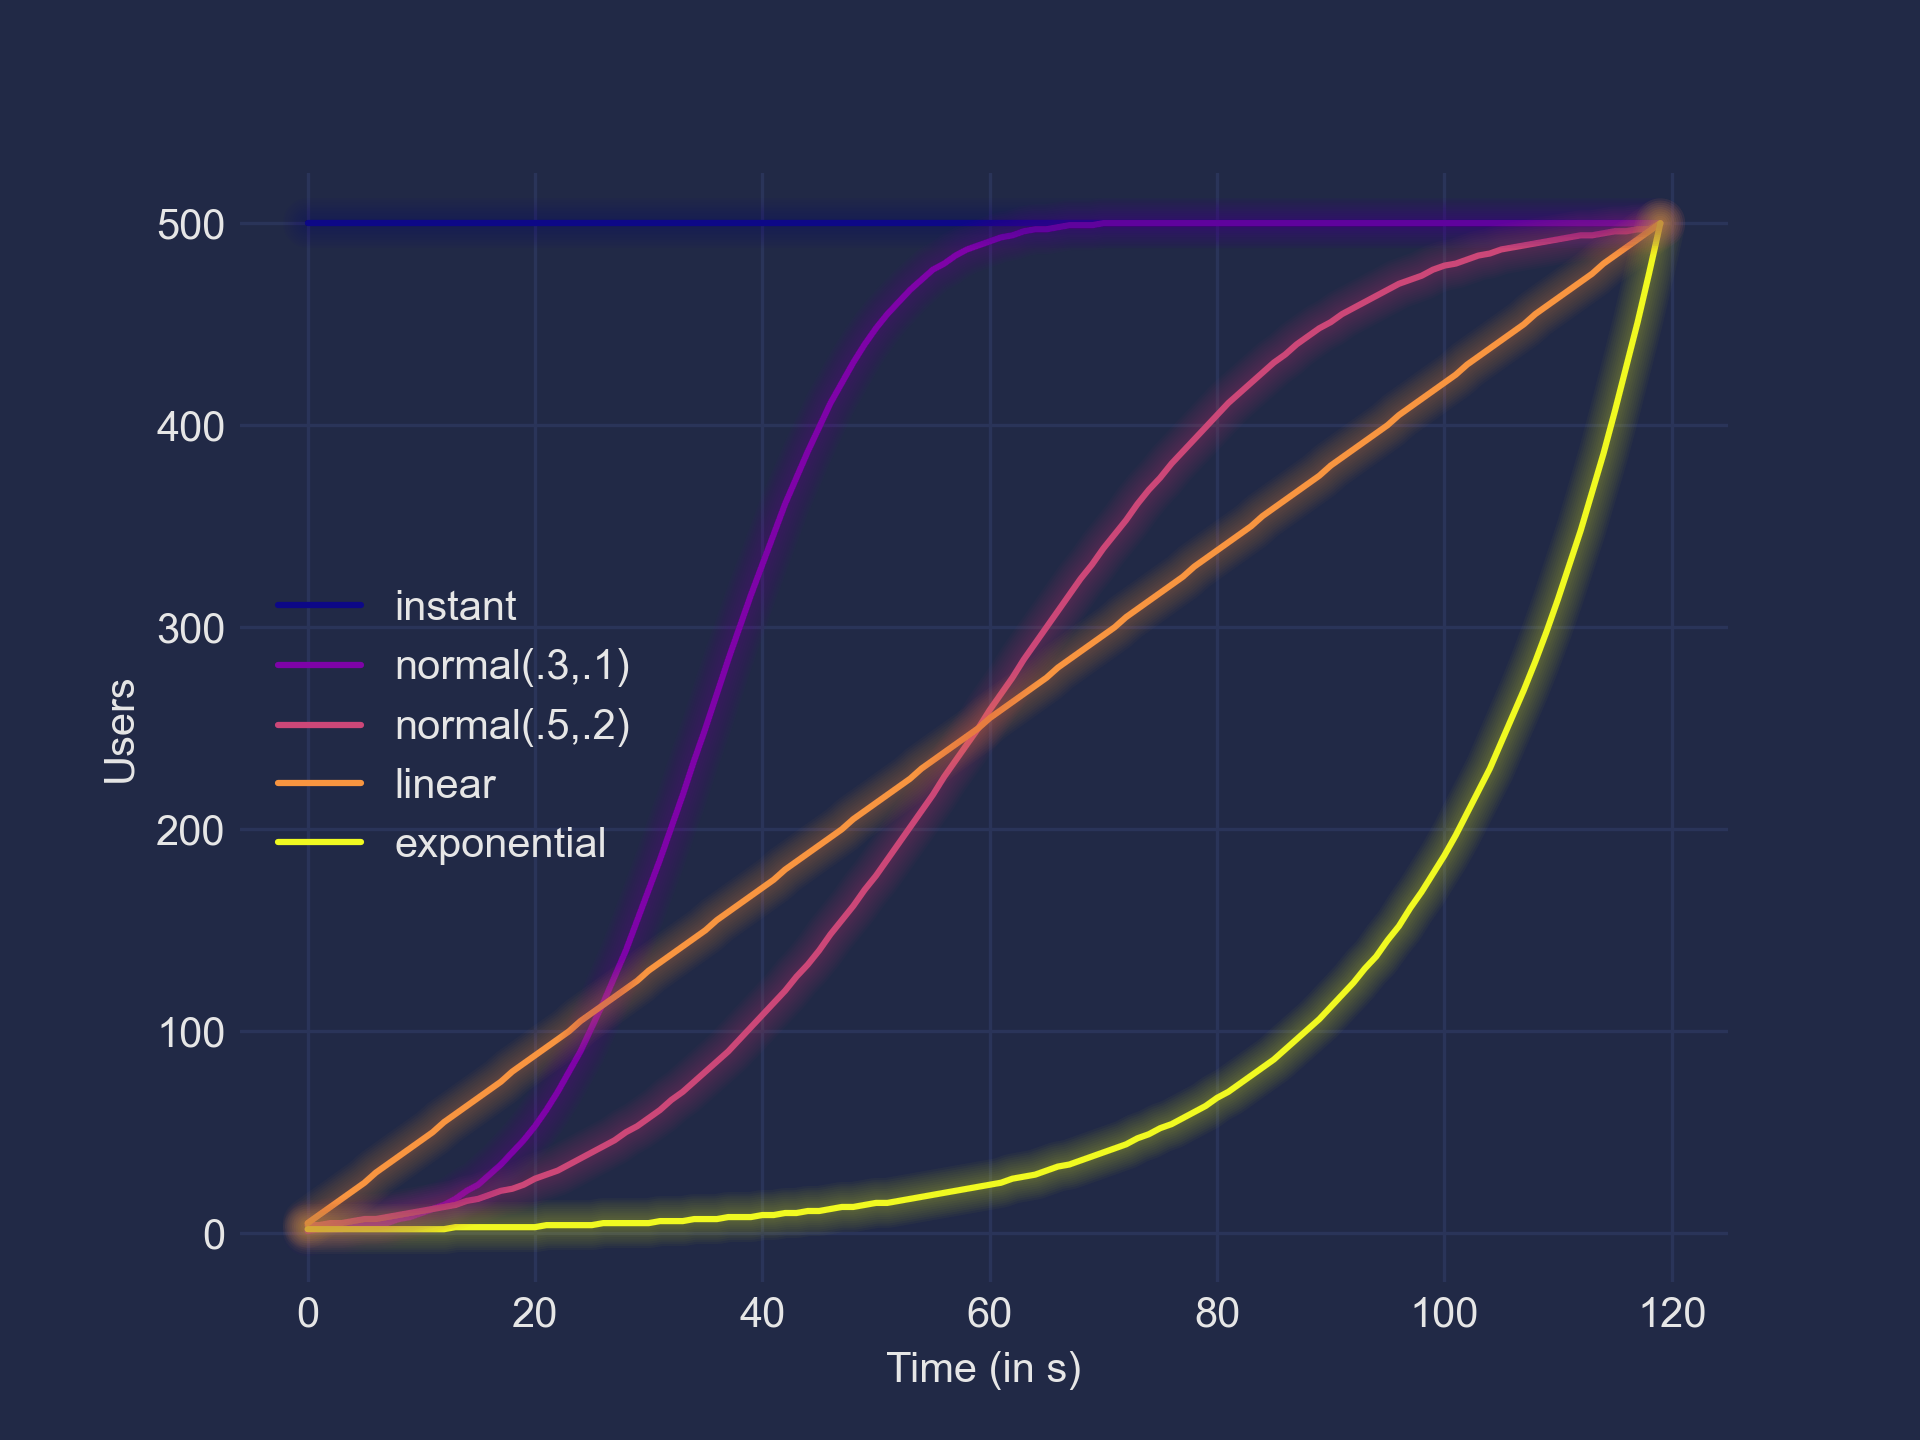
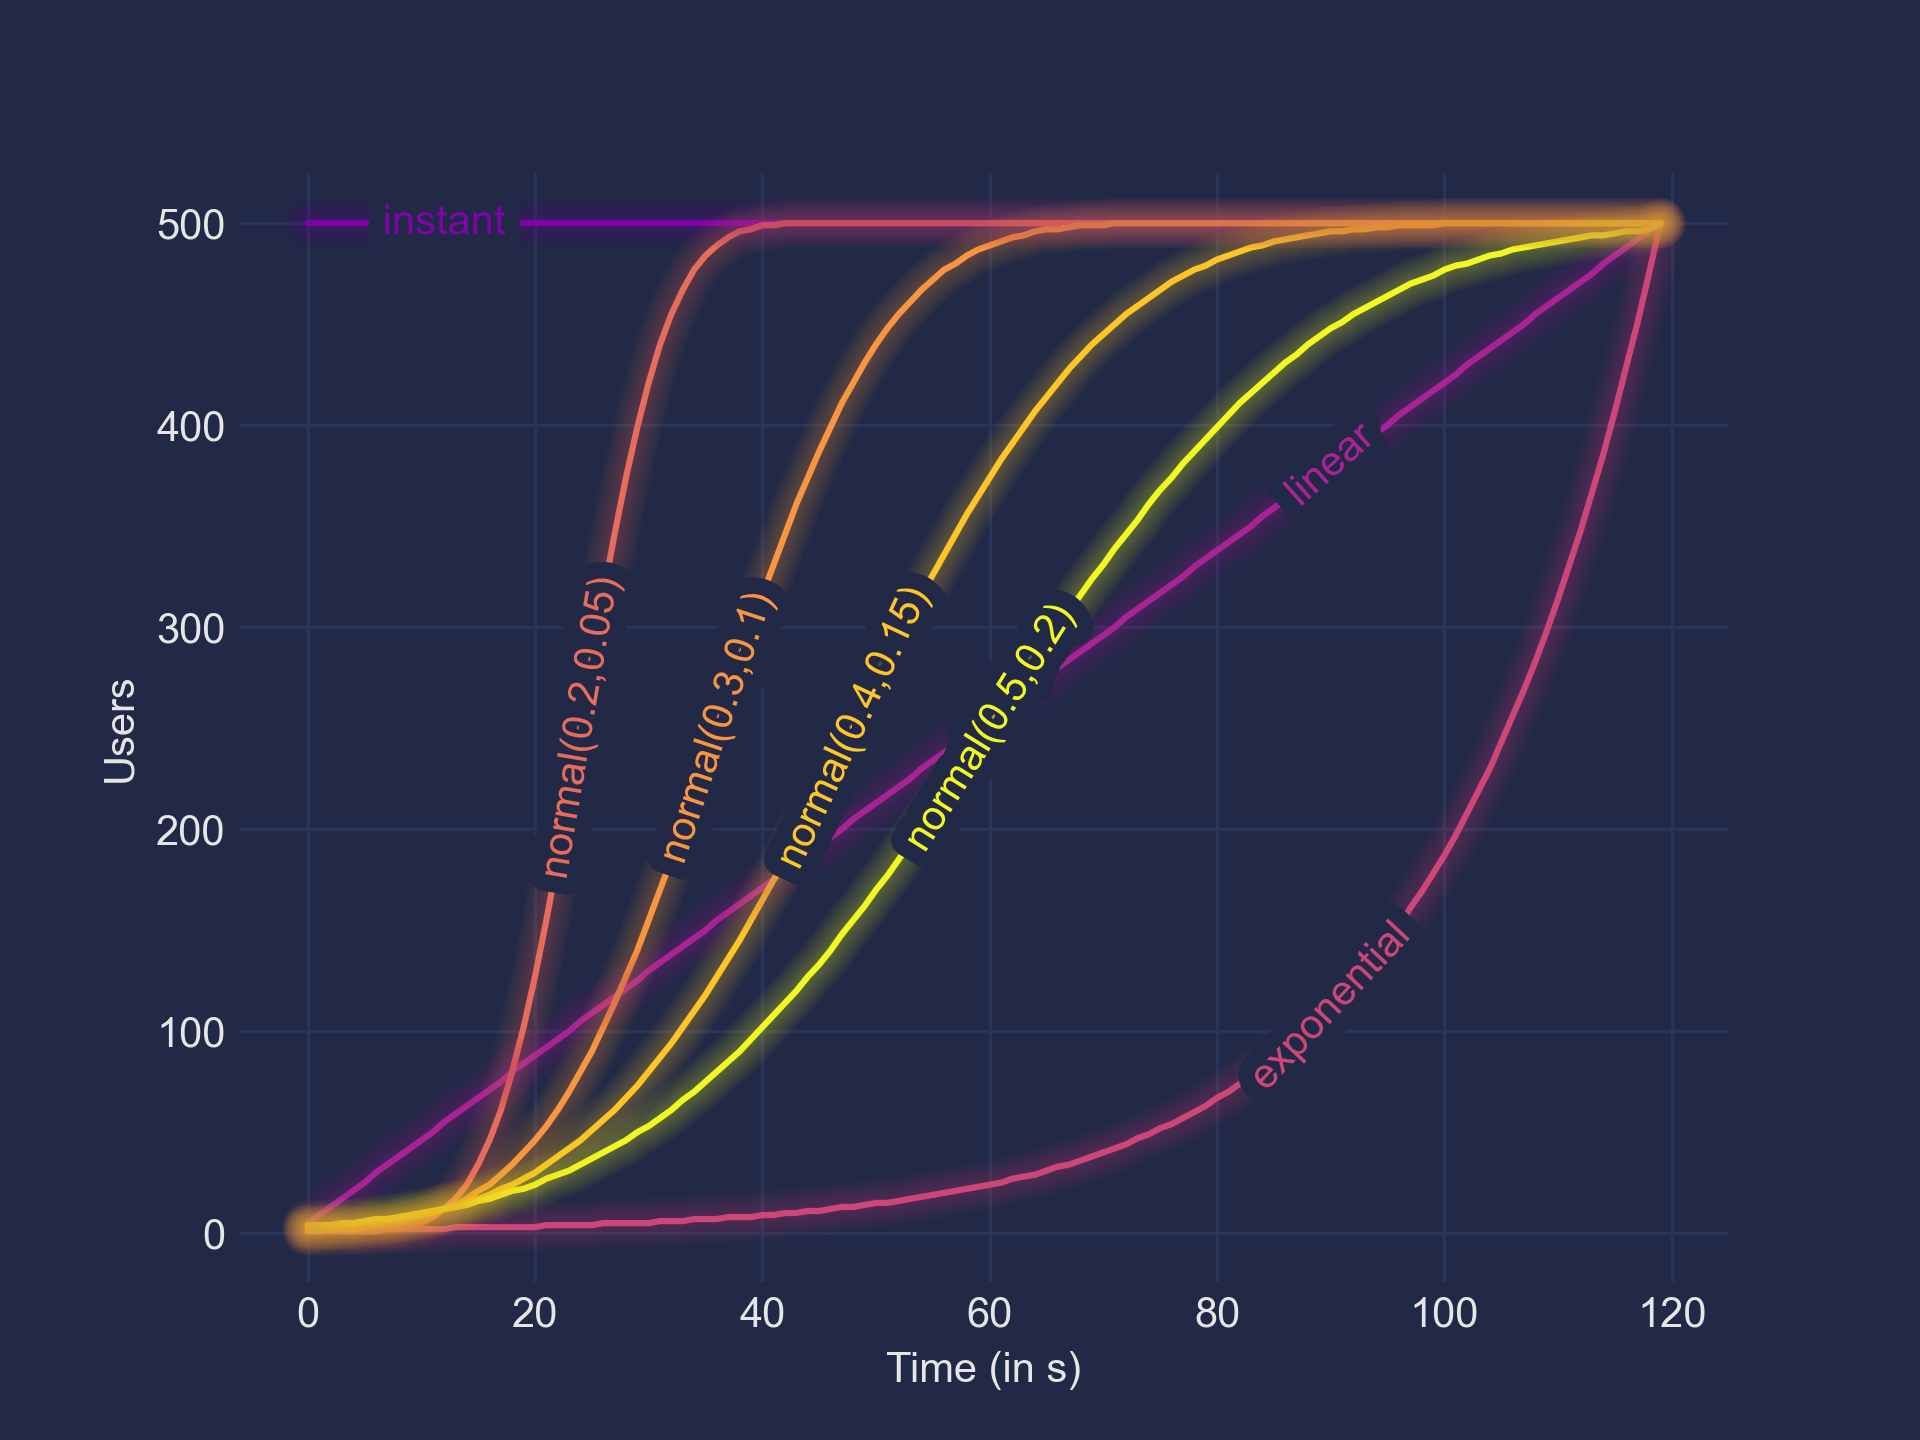
chore: enhance distribution and doc

Changed region(s): [[0.125, 0.125, 0.875, 0.875]]

diff --git a/tests/load/utils/distribution.py b/tests/load/utils/distribution.py
@@ -7,7 +7,7 @@ exponential = lambda: lambda n,b : [
 
 normal = lambda m,s : lambda n,b : [ 
         math.ceil(n * (1.0 + math.erf(((float(k) / float(b)) - m ) / (s * math.sqrt(2.0)))) / 2.0)
-        for k in range(1, b)
+        for k in range(0, b-1)
     ] + [n] 
       
 linear = lambda : lambda n,b : [ math.ceil(k*n/b) for k in range(1,b) ] + [n]
@@ -20,36 +20,58 @@ if __name__ == "__main__":
     import matplotlib.pyplot as plt
     import matplotlib
     import mplcyberpunk
+
+    from labellines import labelLine, labelLines
+
     a = sys.argv.copy()
     u = int(a[1]) if len(a) > 1 else 100
     d = int(a[2]) if len(a) > 2 else 20
     ms = {
         'instant': instant(),
-        'normal(.3,.1)': normal(0.3, 0.1),
-        # 'normal(.7,.07)': normal(0.7, 0.07),
-        'normal(.5,.2)': normal(0.5, 0.2),
         'linear': linear(),
         'exponential' :exponential(),
+    } | {
+        f'normal({.1+float(s)/10.0:.02},{float(s)/20.0})': normal(.1+float(s)/10.0, float(s)/20.0)
+        for s in range(1,5)
+    }
+
+    xs = {
+        'instant': d*0.1,
+        'linear': d*0.75,
+        'exponential': d*0.75,
+    } | {
+        f'normal({.1+float(s)/10.0:.02},{float(s)/20.0})': d*(0.1+s*0.1)
+        for s in range(1,5)
     }
     ds = { n: ms[n](u,d) for n in ms }
 
     print('| '+' |\n| '.join(
-        [' | '.join([' time '] + [m for m in ms])]
-        + [' | '.join([ '-'*(len(k)-1)+':' for k in [' time '] + [m for m in ms]])]
+        [' | '.join([' time '] + [g for m in ms for g in [m,'  Δ  ']])]
+        + [' | '.join(
+            [ '-'*k+':' 
+                for k in [ 5 ] + [g for m in ms for g in [len(m)-1, 4]]
+            ])]
         + [
-            ' | '.join([f'{t:>6}']+[f'{ds[m][t]:>{len(m)}}' for m in ds])
+            ' | '.join(
+                [f'{t:>6}']
+                +[ g 
+                    for m in ds 
+                    for g in [
+                    f'{ds[m][t]:>{len(m)}}',                                # count cell
+                    f'{ds[m][t] if t == 0 else ds[m][t] - ds[m][t-1]:+5}'   # delta cell
+                ]])
             for t in range(0,d)
         ])+' |')
 
     plt.style.use("cyberpunk")
     cmap = plt.cm.plasma
-    colors = matplotlib.colors.Normalize(vmin=0, vmax=len(ds)-1)
+    colors = matplotlib.colors.Normalize(vmin=-2, vmax=len(ds)-1)
     with plt.style.context('cyberpunk'):
         plt.xlabel('Time (in s)')
         plt.ylabel('Users')
         for i, m in enumerate(ds): 
-            plt.plot(range(0,d), ds[m], marker='', c=cmap(colors(i)))
-        plt.legend([m for m in ds])
+            plt.plot(range(0,d), ds[m], marker='',label=m, c=cmap(colors(i)))
+            labelLine(plt.gca().get_lines()[-1],xs[m])
 
         mplcyberpunk.make_lines_glow()
         plt.savefig(f'distributions-{u}-{d}.png', dpi=300)

diff --git a/tests/load/README.md b/tests/load/README.md
@@ -56,29 +56,31 @@ Then browse to [`http://0.0.0.0:8089`](`http://0.0.0.0:8089`)
 
 Exemple for 100 users ramp up during 10s
 
-|  time  | instant | normal(.3,.1) | normal(.5,.2) | linear | exponential |
-| -----: | ------: | ------------: | ------------: | -----: | ----------: |
-|      0 |     100 |             3 |             3 |     10 |           2 |
-|      1 |     100 |            16 |             7 |     20 |           3 |
-|      2 |     100 |            50 |            16 |     30 |           4 |
-|      3 |     100 |            85 |            31 |     40 |           7 |
-|      4 |     100 |            98 |            50 |     50 |          10 |
-|      5 |     100 |           100 |            70 |     60 |          16 |
-|      6 |     100 |           100 |            85 |     70 |          26 |
-|      7 |     100 |           100 |            94 |     80 |          40 |
-|      8 |     100 |           100 |            98 |     90 |          64 |
-|      9 |     100 |           100 |           100 |    100 |         100 |
+|  time  | instant |   Δ   | linear |   Δ   | exponential |   Δ   | normal(0.2,0.05) |   Δ   | normal(0.3,0.1) |   Δ   | normal(0.4,0.15) |   Δ   | normal(0.5,0.2) |   Δ   |
+| -----: | ------: | ----: | -----: | ----: | ----------: | ----: | ---------------: | ----: | --------------: | ----: | ---------------: | ----: | --------------: | ----: |
+|      0 |     100 |  +100 |     10 |   +10 |           2 |    +2 |                1 |    +1 |               1 |    +1 |                1 |    +1 |               1 |    +1 |
+|      1 |     100 |    +0 |     20 |   +10 |           3 |    +1 |                3 |    +2 |               3 |    +2 |                3 |    +2 |               3 |    +2 |
+|      2 |     100 |    +0 |     30 |   +10 |           4 |    +1 |               50 |   +47 |              16 |   +13 |               10 |    +7 |               7 |    +4 |
+|      3 |     100 |    +0 |     40 |   +10 |           7 |    +3 |               98 |   +48 |              50 |   +34 |               26 |   +16 |              16 |    +9 |
+|      4 |     100 |    +0 |     50 |   +10 |          10 |    +3 |              100 |    +2 |              85 |   +35 |               50 |   +24 |              31 |   +15 |
+|      5 |     100 |    +0 |     60 |   +10 |          16 |    +6 |              100 |    +0 |              98 |   +13 |               75 |   +25 |              50 |   +19 |
+|      6 |     100 |    +0 |     70 |   +10 |          26 |   +10 |              100 |    +0 |             100 |    +2 |               91 |   +16 |              70 |   +20 |
+|      7 |     100 |    +0 |     80 |   +10 |          40 |   +14 |              100 |    +0 |             100 |    +0 |               98 |    +7 |              85 |   +15 |
+|      8 |     100 |    +0 |     90 |   +10 |          64 |   +24 |              100 |    +0 |             100 |    +0 |              100 |    +2 |              94 |    +9 |
+|      9 |     100 |    +0 |    100 |   +10 |         100 |   +36 |              100 |    +0 |             100 |    +0 |              100 |    +0 |             100 |    +6 |
+
 
 Exemple for 500 users ramp up during 120s
 
 ![Ramp up for 500 users during 120s](./docs/distributions-500-120.png)
 
-
 #### Start benchmarks
 
 * select a load profile (how many users)
 * select a ramp up method (see before)
-    - for `normal` method, you may need to change `mu_ratio` (how centered we will distribute user) and `sigma` (how flat will be the distribution)
+    - for `normal` method, you may need to change following parameters:
+        * `mu_ratio`: mean ratio (default `0.5`). `0.2` means half of the users will be already started at 20% of ramp up time
+        * `sigma`:  standard deviation (default `0.1`) `0.2` means 1σ (68.2%) of users will be started within 40% of timespan arround mean. e.g., for 500 users during 120s, it means 341 users will be started during 48s from t=24s to t=72s).
 * set a ramp up duration (in seconds)
 * select a wait time (how long user will wait between two API actions)
 * click `START` to run benchmark
